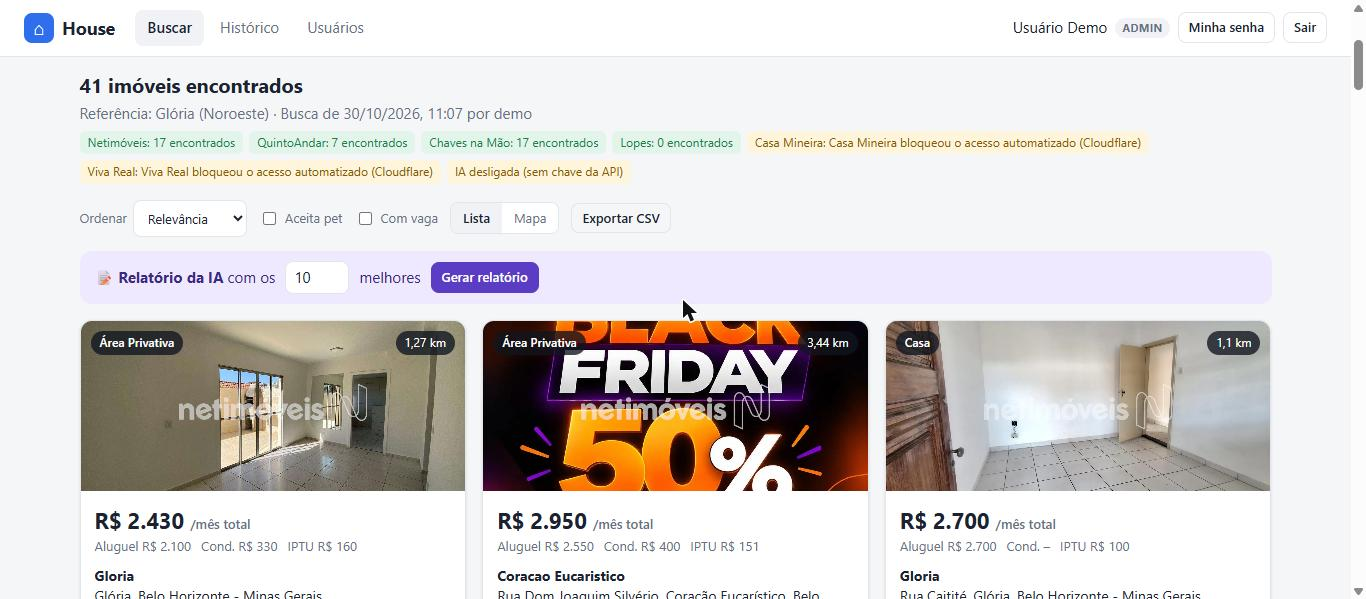
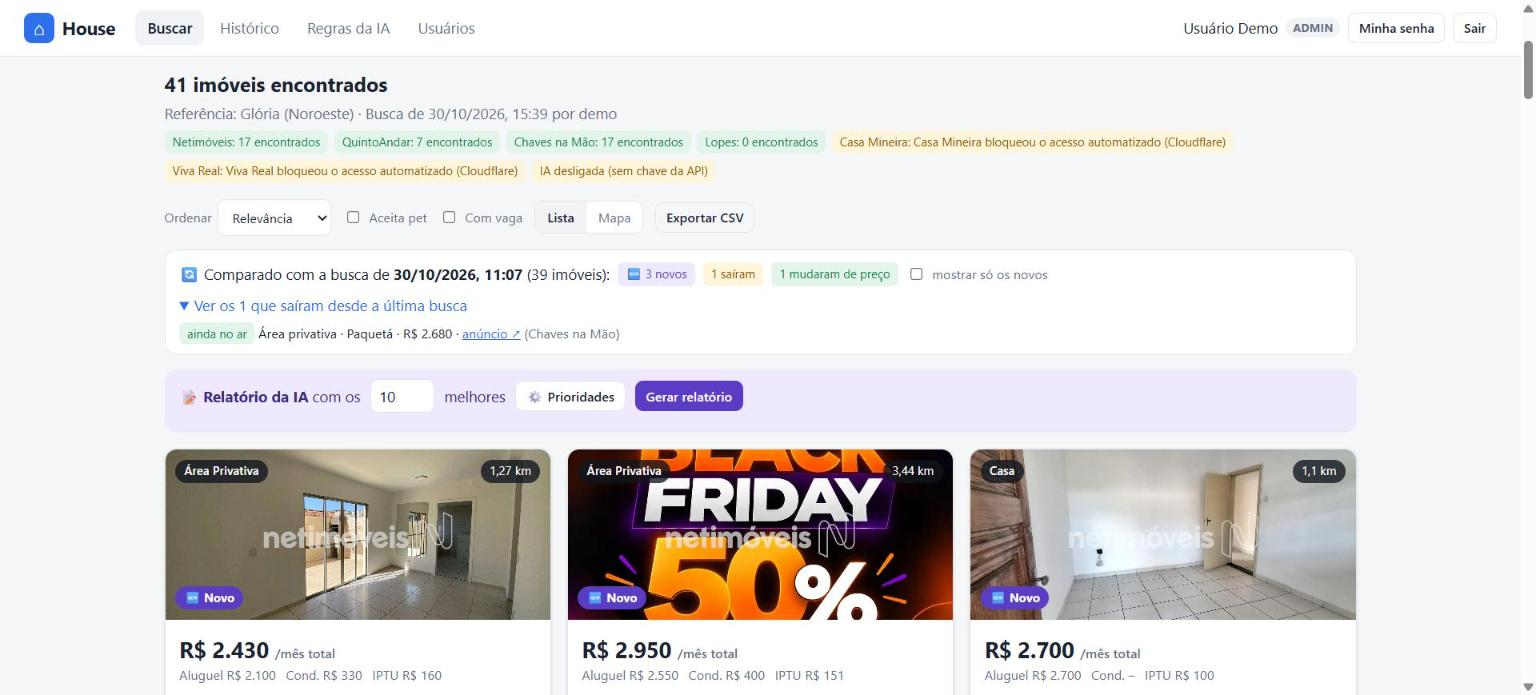
Docs: prints atualizados (comparacao, onibus, Street View, prioridades, regras, base de onibus) e README

diff --git a/docs/MANUAL.md b/docs/MANUAL.md
@@ -88,7 +88,7 @@ IPTU, pet…). Mais = mais completo e mais lento.
 
 ## 3. Entendendo os resultados
 
-![Cabeçalho dos resultados](img/05-resultados.jpg)
+![Cabeçalho dos resultados, com a comparação ao refazer e a faixa do relatório](img/05-resultados.jpg)
 
 - **Referência**: o bairro usado como centro do raio e quem fez a busca.
 - **Fontes** (verde = respondeu, amarelo = bloqueado ou com erro) e o estado da **IA**.
@@ -101,7 +101,7 @@ o mais perto, depois o mais barato.
 
 ### Os cards
 
-![Cards de imóveis](img/06-cards.jpg)
+![Cards com preço que mudou, linhas de ônibus abertas e links de Street View](img/06-cards.jpg)
 
 Cada card mostra:
 
@@ -144,6 +144,8 @@ condomínio baixo; mais perto do bairro; mais quartos; área maior; mobiliado; m
 perto; atender às prioridades escritas na busca — marcando **Desejável**, **Importante** ou
 **Essencial** (o resto fica *Indiferente*). Há também um campo livre *Outras prioridades*.
 
+![Painel de prioridades do relatório](img/11-prioridades.jpg)
+
 - **Essencial**: quem confirma vem antes; quem não informa desce e vira pergunta ao anunciante; quem
   nega fica por último.
 - As prioridades também escolhem **quais imóveis a IA analisa**: um imóvel que aceita caução entra na
@@ -178,6 +180,8 @@ buscas e relatórios**: ela orienta a interpretação do pedido e o ranking.
 
 Na aba **Regras da IA** você vê as regras compartilhadas e as suas privadas e pode:
 
+![Aba Regras da IA](img/12-regras.jpg)
+
 - **Adicionar** uma regra escrita à mão;
 - **Editar** o texto, **ativar/desativar** e **compartilhar ou não** (as suas; admins podem em todas);
 - **Excluir**.
@@ -194,7 +198,8 @@ o que o pedido diz explicitamente, vale o pedido.
 Toda busca fica salva com quem pesquisou, quando, o texto, os filtros e os resultados.
 
 - **Abrir**: mostra os resultados salvos (sem buscar de novo) e o relatório, se houver (📝).
-- **Refazer**: roda a mesma busca de novo, com dados atuais, e **compara com a busca de origem**:
+- **Refazer**: roda a mesma busca de novo, com dados atuais, e **compara com a busca de origem** (veja o
+  painel no [print dos resultados](#3-entendendo-os-resultados)):
   - **🆕 Novo** nos cards que não estavam antes (e a opção *mostrar só os novos*);
   - **"era R$ …"** quando o total mensal mudou (verde se caiu, vermelho se subiu);
   - **Ver os que saíram**: anúncios que não vieram desta vez, com a verificação de cada um —
@@ -227,6 +232,8 @@ quiser, do [suplementar](https://dados.pbh.gov.br/dataset/feed-gtfs-estatico-do-
 envie em **Atualizar base de ônibus** e aguarde o processamento (até 1–2 min). A base nova vale na hora
 para as próximas buscas (as já feitas mudam ao clicar em **Refazer**) e fica guardada no banco.
 **Voltar à base original** descarta a enviada. Arquivos que não sejam GTFS de BH são recusados.
+
+![Diagnóstico e base de ônibus](img/13-base-onibus.jpg)
 
 ---
 

diff --git a/README.md b/README.md
@@ -2,7 +2,7 @@
 
 > 📖 **[Manual do usuário](docs/MANUAL.md)** – como usar o site, com prints de cada tela.
 
-API (FastAPI + SQLite) que recebe um texto livre como
+API (FastAPI; SQLite no PC, Postgres no Render) com interface web, que recebe um texto livre como
 `casa ou apartamento 3 quartos num raio de 10 km do bairro gloria`,
 transforma em filtros e busca anúncios de locação em Belo Horizonte.
 
@@ -70,7 +70,8 @@ O PC precisa estar ligado e conectado. `.\publicar-tailscale.ps1 -Parar` remove 
 | GET | `/historico` | buscas do usuário (quem, quando, texto, filtros, total) |
 | GET/DELETE | `/historico/{id}` | reabre os resultados salvos / exclui (dono ou admin) |
 | GET | `/admin/historico?usuario=` | buscas de todos os usuários (admin) |
-| POST/GET | `/historico/{id}/relatorio` | gera (top 1–40) / reabre o relatório da IA |
+| POST/GET | `/historico/{id}/relatorio` | gera (`top` 1–40, `prioridades`, `observacao`) / reabre o relatório da IA |
+| GET | `/relatorio/criterios` | critérios que podem ser priorizados no relatório |
 | POST/GET | `/historico/{id}/feedback` | avalia o relatório (nota 1–5 + justificativa; vira regra) / lista avaliações |
 | GET/POST/DELETE | `/admin/onibus` | base de ônibus em uso / envia GTFS (multipart: convencional, suplementar) / volta à original |
 | GET/POST | `/regras` | regras da IA visíveis (compartilhadas + suas) / cria regra |
